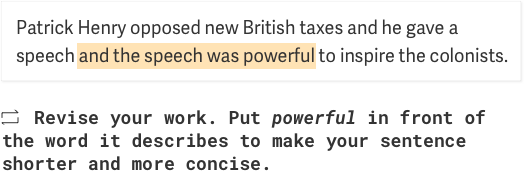
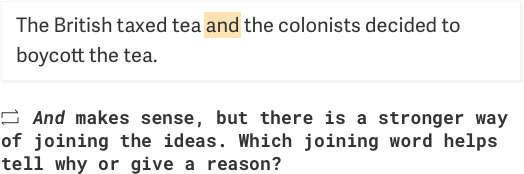
update images, copy, and links on quill connect page

Changed region(s): [[0.0, 0.6433, 0.9771, 1.0], [0.0305, 0.0585, 0.9771, 0.4094], [0.0, 0.6433, 0.0305, 0.6725]]

diff --git a/client/app/assets/styles/tool-section.scss b/client/app/assets/styles/tool-section.scss
@@ -602,7 +602,7 @@ $tool-grey: #f8f9f9;
             font-size: 18px;
             line-height: 1.39;
             color: #414141;
-            max-width: 457px;
+            max-width: 480px;
         }
 
         .blurb {
@@ -771,20 +771,21 @@ $tool-grey: #f8f9f9;
         .arrow {
           position: absolute;
           &.arrow-1 {
-            left: -121px;
+            left: -130px;
             top: 161px;
           }
           &.arrow-2 {
-            left: 439px;
-            top: 186px;
+            left: 445px;
+            top: 170px;
           }
           &.arrow-3 {
             left: -121px;
-            top: 151px;
+            top: 145px;
           }
         }
         .prompt {
           text-align: left;
+          margin-left: -58px;
           .prompt-header {
             font-size: 12px;
             font-weight: bold;
@@ -793,7 +794,7 @@ $tool-grey: #f8f9f9;
             margin: 0px auto 10px;
           }
           .prompt-text {
-            font-size: 24px;
+            font-size: 26px;
             font-weight: 600;
             margin: 0px auto;
             padding-bottom: 8px;
@@ -849,10 +850,11 @@ $tool-grey: #f8f9f9;
     &.desktop {
       .walk-thru-step:first-of-type {
           background-image: url('../../../../public/images/tools/connect/background_pattern.png');
-          background-position: center;
+          background-position: 35%;
           background-repeat: no-repeat;
+          height: 255px;
         }
-      @media screen and (max-width: 1265px) {
+      @media screen and (max-width: 1376px) {
         display: none;
       }
 
@@ -884,7 +886,7 @@ $tool-grey: #f8f9f9;
           }
         }
       }
-      @media screen and (min-width: 1265px) {
+      @media screen and (min-width: 1377px) {
         display: none;
       }
     }
